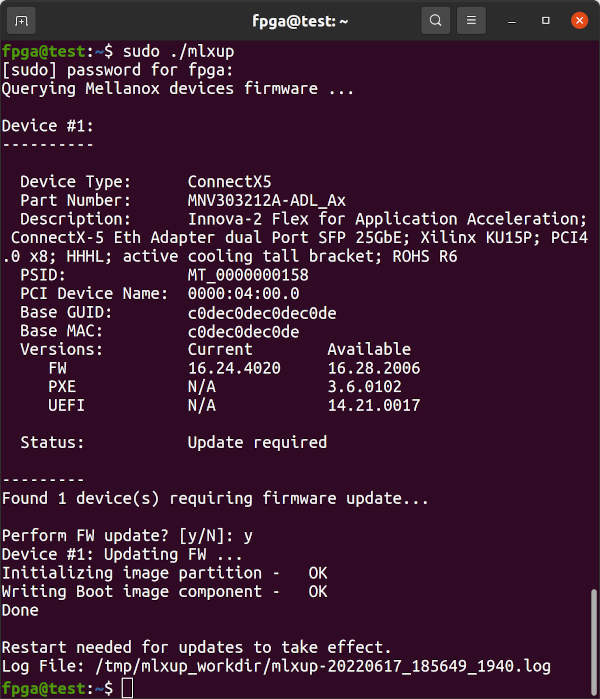
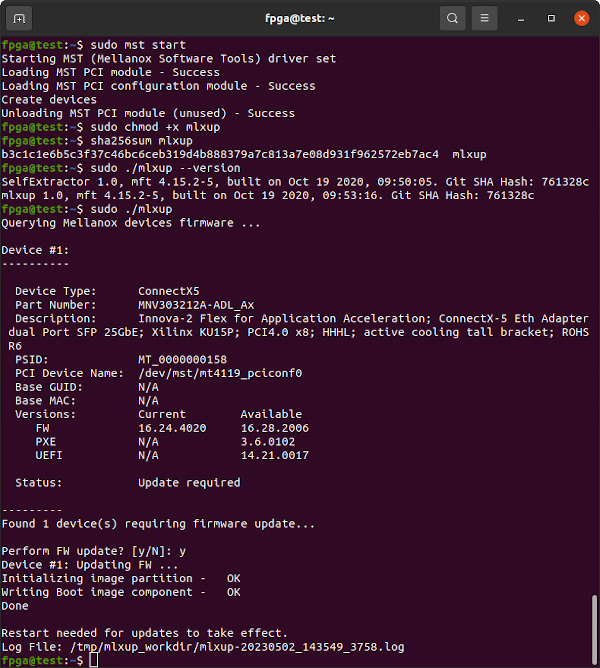
Updated mlxup notes - only 4.15.2 works

diff --git a/README.md b/README.md
@@ -1035,18 +1035,24 @@ If the above works then great! Your Innova-2 has a working FPGA with PCIe. Conti
 
 ## Upgrading the ConnectX5 Firmware
 
-Once you have tested an Innova-2 using the current working firmware, you may want to explore upgrading the ConnectX-5 using the [mlxup](https://network.nvidia.com/support/firmware/mlxup-mft/) utility. Check out the [mlxup User Guide](https://docs.mellanox.com/display/MLXUPFWUTILITY). It has an `--online` option.
+If you are experiencing issues with your Innova-2 or require PXE Boot capability, explore upgrading the ConnectX-5 using the [mlxup](https://network.nvidia.com/support/firmware/mlxup-mft/) utility. Check out the [mlxup User Guide](https://docs.mellanox.com/display/MLXUPFWUTILITY). The latest version to support the Innova-2 is `4.15.2` and will upgrade your ConnectX-5 firmware to **16.28.2006** and PXE Boot `3.6.0102`.
+
+![mlxup 4.15.2](img/mlxup-mft_Download.png)
+
 ```
 cd ~
-wget https://www.mellanox.com/downloads/firmware/mlxup/4.20.0/SFX/linux_x64/mlxup
-echo e9ce226ee43fb0ad0b84ecee44cf64989bdf5f1f6a99c459aae29f3a4e1ae32c should be the SHA256 checksum
+wget https://www.mellanox.com/downloads/firmware/mlxup/4.15.2/SFX/linux_x64/mlxup
+echo b3c1c1e6b5c3f37c46bc6ceb319d4b888379a7c813a7e08d931f962572eb7ac4 should be the SHA256 checksum
 sha256sum mlxup
+sudo mst start
+sudo chmod +x mlxup
+sudo ./mlxup --version
 sudo ./mlxup
 ```
 
 ![mlxup](img/mlxup.png)
 
-The latest firmware [directy downloadable](http://www.mellanox.com/downloads/firmware/fw-ConnectX5-rel-16_26_4012-MNV303212A-ADL_Ax-UEFI-14.19.17-FlexBoot-3.5.805.bin.zip) from Nvidia/Mellanox is **16.26.4012**.
+The latest firmware [directy downloadable](http://www.mellanox.com/downloads/firmware/fw-ConnectX5-rel-16_26_4012-MNV303212A-ADL_Ax-UEFI-14.19.17-FlexBoot-3.5.805.bin.zip) from Nvidia/Mellanox is **16.26.4012** which is older than the version included with `mlxup 4.15.2`
 
 ![Firmware 16.26.4012](img/MT_0000000158_Latest_Downloadable_Firmware_16_26_4012.png)
 
